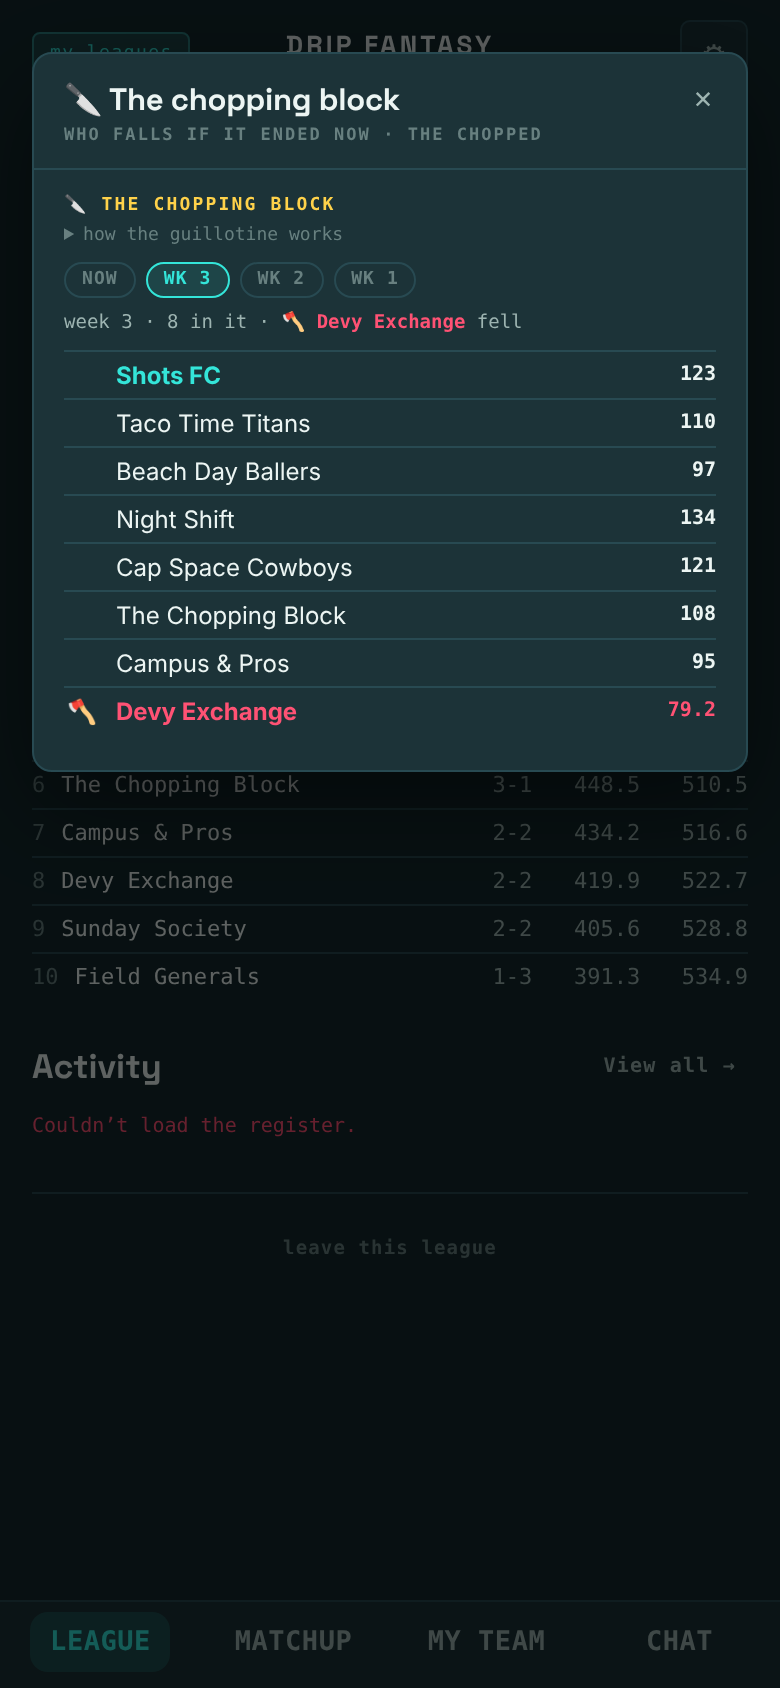
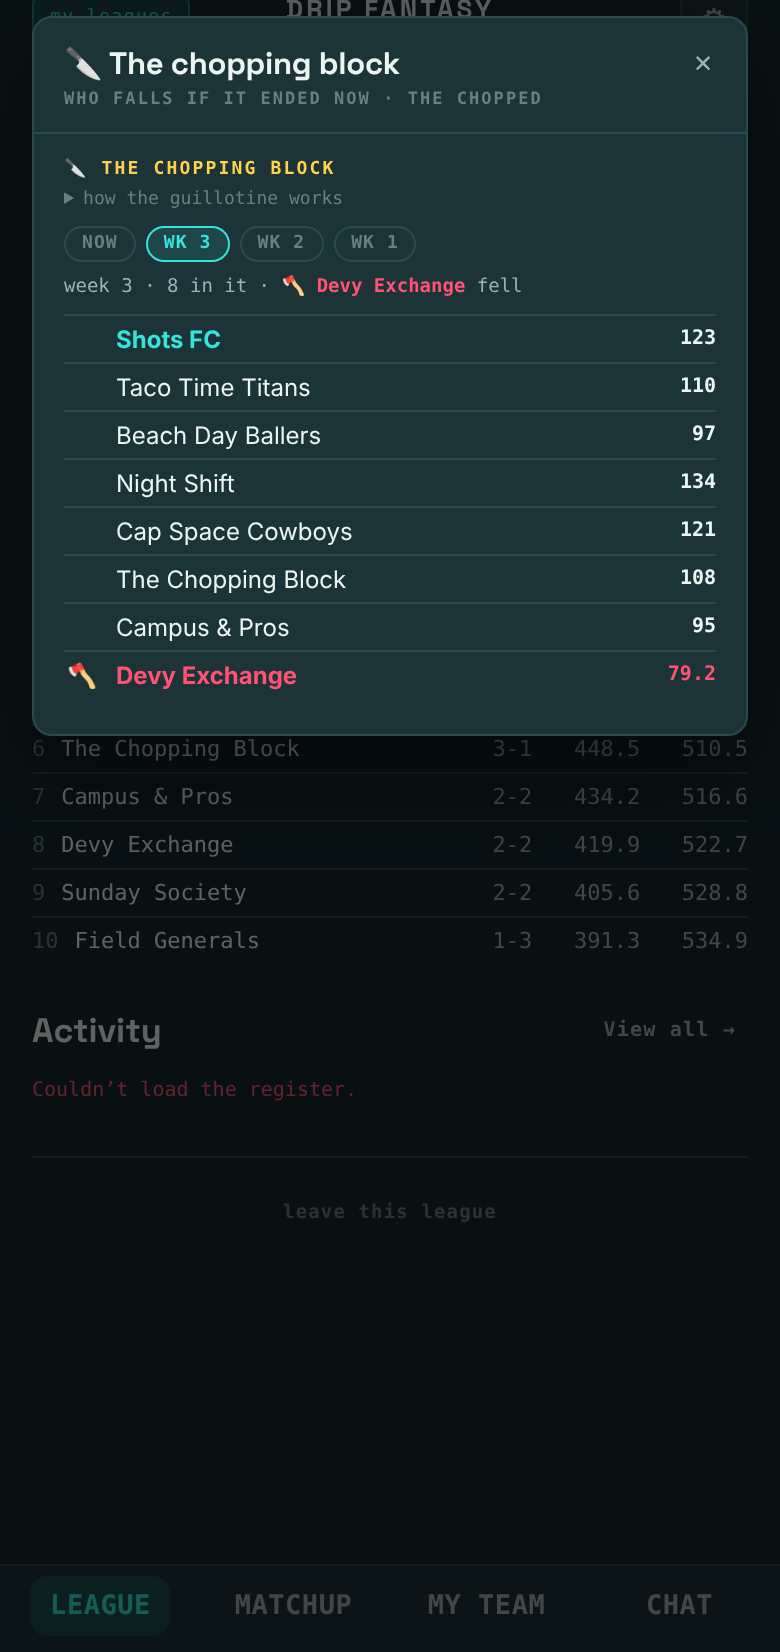
v0.651.2: the screens open on the score, and show more of the lineup (#1160)
Founder: "Crop the header and make the image box longer so we get more of
the players in." The thirteen files lose their top strip (the brand bar
on the boards and the cap sheet; the dimmed page behind a sheet; the
board grid above the draft's player list), and the mixed-college and
scoped boards were re-shot and trimmed to a row boundary. The rail's
frame is 3:4 on a phone and square on a wide screen, cropping from the
top as before, so each opens on the score card and shows four or five
starters.

Claude-Session: https://claude.ai/code/session_01Ra1P2uYs7L1wujHxgAdth4

diff --git a/src/screens/Landing.tsx b/src/screens/Landing.tsx
@@ -240,9 +240,11 @@ export function Landing() {
                     <div>{chips}</div>
                     {/* WIDE, NOT TALL (v0.651.1, founder: "zoom them in and cut
                         off the bottoms so they fit wider"): the screen fills
-                        the card's width and the frame keeps only the top of
-                        it — the header, the score, the first rows. */}
-                    <Rail shots={shots} ratio={narrow ? '1 / 1' : '4 / 3'} width="100%" base={base} index={idx} onIndex={pickShot} />
+                        the card's width and the frame keeps the top of it.
+                        v0.651.2: the app's own header bar is cropped out of
+                        the files, and the frame runs longer ("so we get more
+                        of the players in"): the score and four or five rows. */}
+                    <Rail shots={shots} ratio={narrow ? '3 / 4' : '1 / 1'} width="100%" base={base} index={idx} onIndex={pickShot} />
                   </>
                 )}
               </div>

diff --git a/packages/core/src/version.ts b/packages/core/src/version.ts
@@ -2,7 +2,7 @@
 // Versioning: 3-part semver, pre-1.0. Bump patch per deploy (0.10.1, 0.10.2…),
 // minor for bigger features (0.11, 0.12…). Segments aren't capped at 9, so 1.0
 // is a deliberate choice, not an automatic rollover.
-export const APP_VERSION = 'v0.651.1';
+export const APP_VERSION = 'v0.651.2';
 
 // Stat data + 2025 NFL play-by-play powering this game comes from Stathead.
 export const DATA_SOURCE = { name: 'Stathead', url: 'https://stathead.app' };

diff --git a/STATUS.md b/STATUS.md
@@ -22,6 +22,17 @@ Near-daily (git shows daily bursts; season launch Sep 9 is the forcing function)
 
 ## Last worked (superseded entries below)
 
+### v0.651.2 — the screens open on the score, and show more of the lineup
+
+> - The front page's screens no longer start with the app's header bar: each opens on the score card, the sheet, or the list, and the frame runs longer so four or five starters show.
+
+Founder: "Crop the header and make the image box longer so we get more of
+the players in." The thirteen files lose their top strip (the brand bar on
+the boards and the cap sheet; the dimmed page behind a sheet; the board
+grid above the draft's player list), and the mixed-college and scoped
+boards were re-shot on a row boundary. `Landing.tsx`: the frame is 3:4 on
+a phone and square on a wide screen, cropping from the top as before.
+
 ### v0.651.1 — the front page's screens run wide
 
 > - Each feature card's screen now fills the card's width, zoomed in on the top of the screen (the header, the score, the first rows) instead of a small full-height phone frame.

diff --git a/public/brand/funnel/README.md b/public/brand/funnel/README.md
@@ -12,9 +12,9 @@ rotates through its files; a file that isn't here yet shows as a labelled
 fixed — `src/screens/Landing.tsx` (`FUNNEL_SHOTS`) reads them.
 
 Shoot in **portrait** on a phone, in the app, and save as PNG. The frame is
-9:19 and crops from the **top**, so the thing you're showing should sit in
-the upper two-thirds of the screen. The status bar is fine to leave in; the
-frame hides nothing that matters.
+wide (3:4 on a phone, square on a desktop) and crops from the **top**, so
+crop your shot to start right where the content starts (no status bar, no
+app header) and keep the thing you're showing in the upper half.
 
 | File | Card | Show |
 |---|---|---|
